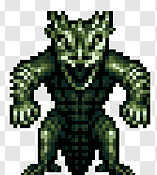
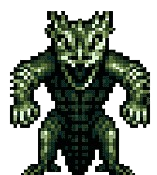
tamaño del enemigo 1 corregido y posiciones dispuestas de manera mas exacta

diff --git a/Trabajo Integrador MyAI Pilar Marco/Enemigo.cpp b/Trabajo Integrador MyAI Pilar Marco/Enemigo.cpp
@@ -12,7 +12,7 @@ void Enemigo::setEnemigo1()
 {
 	enemigotexture1.loadFromFile("Enemigo1.png");
 	enemigo1.setTexture(enemigotexture1);
-	enemigo1.setScale(0.7, 0.7);
+	enemigo1.setScale(0.2, 0.2);
 }
 
 void Enemigo::enemigo1aparecer()
@@ -27,7 +27,9 @@ void Enemigo::enemigo1aparecer()
 				int coordenaday = posicionenemigo1[k][1];
 
 				enemigo1.setPosition(coordenadax, coordenaday);
-				//cout << "x esta en: " << coordenadax << "y estta en: "<< endl << coordenaday << endl;
+				
+				cout << "x esta en: " << coordenadax << "y estta en: "<< endl << coordenaday << endl;
+		//enemigo1.setPosition(posicionenemigo1[13][0], posicionenemigo1[13][1]);
 		
         randomclock = (rand() % 900 + 100) / 1000.0f;
         clock.restart();

diff --git a/Trabajo Integrador MyAI Pilar Marco/Enemigo.h b/Trabajo Integrador MyAI Pilar Marco/Enemigo.h
@@ -17,8 +17,8 @@ private:
 	Texture enemigotexture3;
 	Clock clock;
 	float randomclock = 0.1f;
-	int posicionenemigo1[VENTANAS][COORDENADAS] = { {374,163}, {374,228},{214,348},{327,331},{406,331},{543,351},
-		{211,423},{339,425},{426,429},{555,428},{53,510},{276,510},{490,511},{709,511} };//completar con las posiciones de las ventanitas y copiar del tp de las cartas la logica{}, {};
+	int posicionenemigo1[VENTANAS][COORDENADAS] = { {648,180}, {650,250},{472,387},{598,365},{689,373},{845,490},
+		{468,476},{610,476},{709,476},{856,467},{289,567},{538,571},{783,570},{1030,565} };//completar con las posiciones de las ventanitas y copiar del tp de las cartas la logica{}, {};
 public:
 	void setEnemigo1();
 	Sprite getEnemigo1();

diff --git a/Trabajo Integrador MyAI Pilar Marco/Trabajo Integrador MyAI Pilar Marco.cpp b/Trabajo Integrador MyAI Pilar Marco/Trabajo Integrador MyAI Pilar Marco.cpp
@@ -17,7 +17,7 @@ int main() {
 	Enemigo _enemigo1;
 	_enemigo1.setEnemigo1();
 
-	sf::RenderWindow App(sf::VideoMode(800, 750, 32),
+	sf::RenderWindow App(sf::VideoMode(1366, 768, 32),
 		"Que ventana horrible");
 	App.setMouseCursorVisible(false);
 
@@ -36,7 +36,7 @@ int main() {
 				_crosshair.actualizarPosicionCursor(evt.mouseMove.x, evt.mouseMove.y);
 				break;
 			case Event::MouseButtonPressed:
-				//cout << crosshairPosition.x << endl << crosshairPosition.y << endl;
+				cout << crosshairPosition.x << endl << crosshairPosition.y << endl;
 				break;
 
 			}

diff --git a/Trabajo Integrador MyAI Pilar Marco/Castillo.cpp b/Trabajo Integrador MyAI Pilar Marco/Castillo.cpp
@@ -9,6 +9,6 @@ void Castillo :: setCastillo()
 {
 	textureCastillo.loadFromFile("castle.png");
 	castillo.setTexture(textureCastillo);
-	castillo.setScale(1.5, 1.5);
-	castillo.setPosition(25, 0);
+	castillo.setScale(1.7, 1.7);
+	castillo.setPosition(250, 0);
 }
